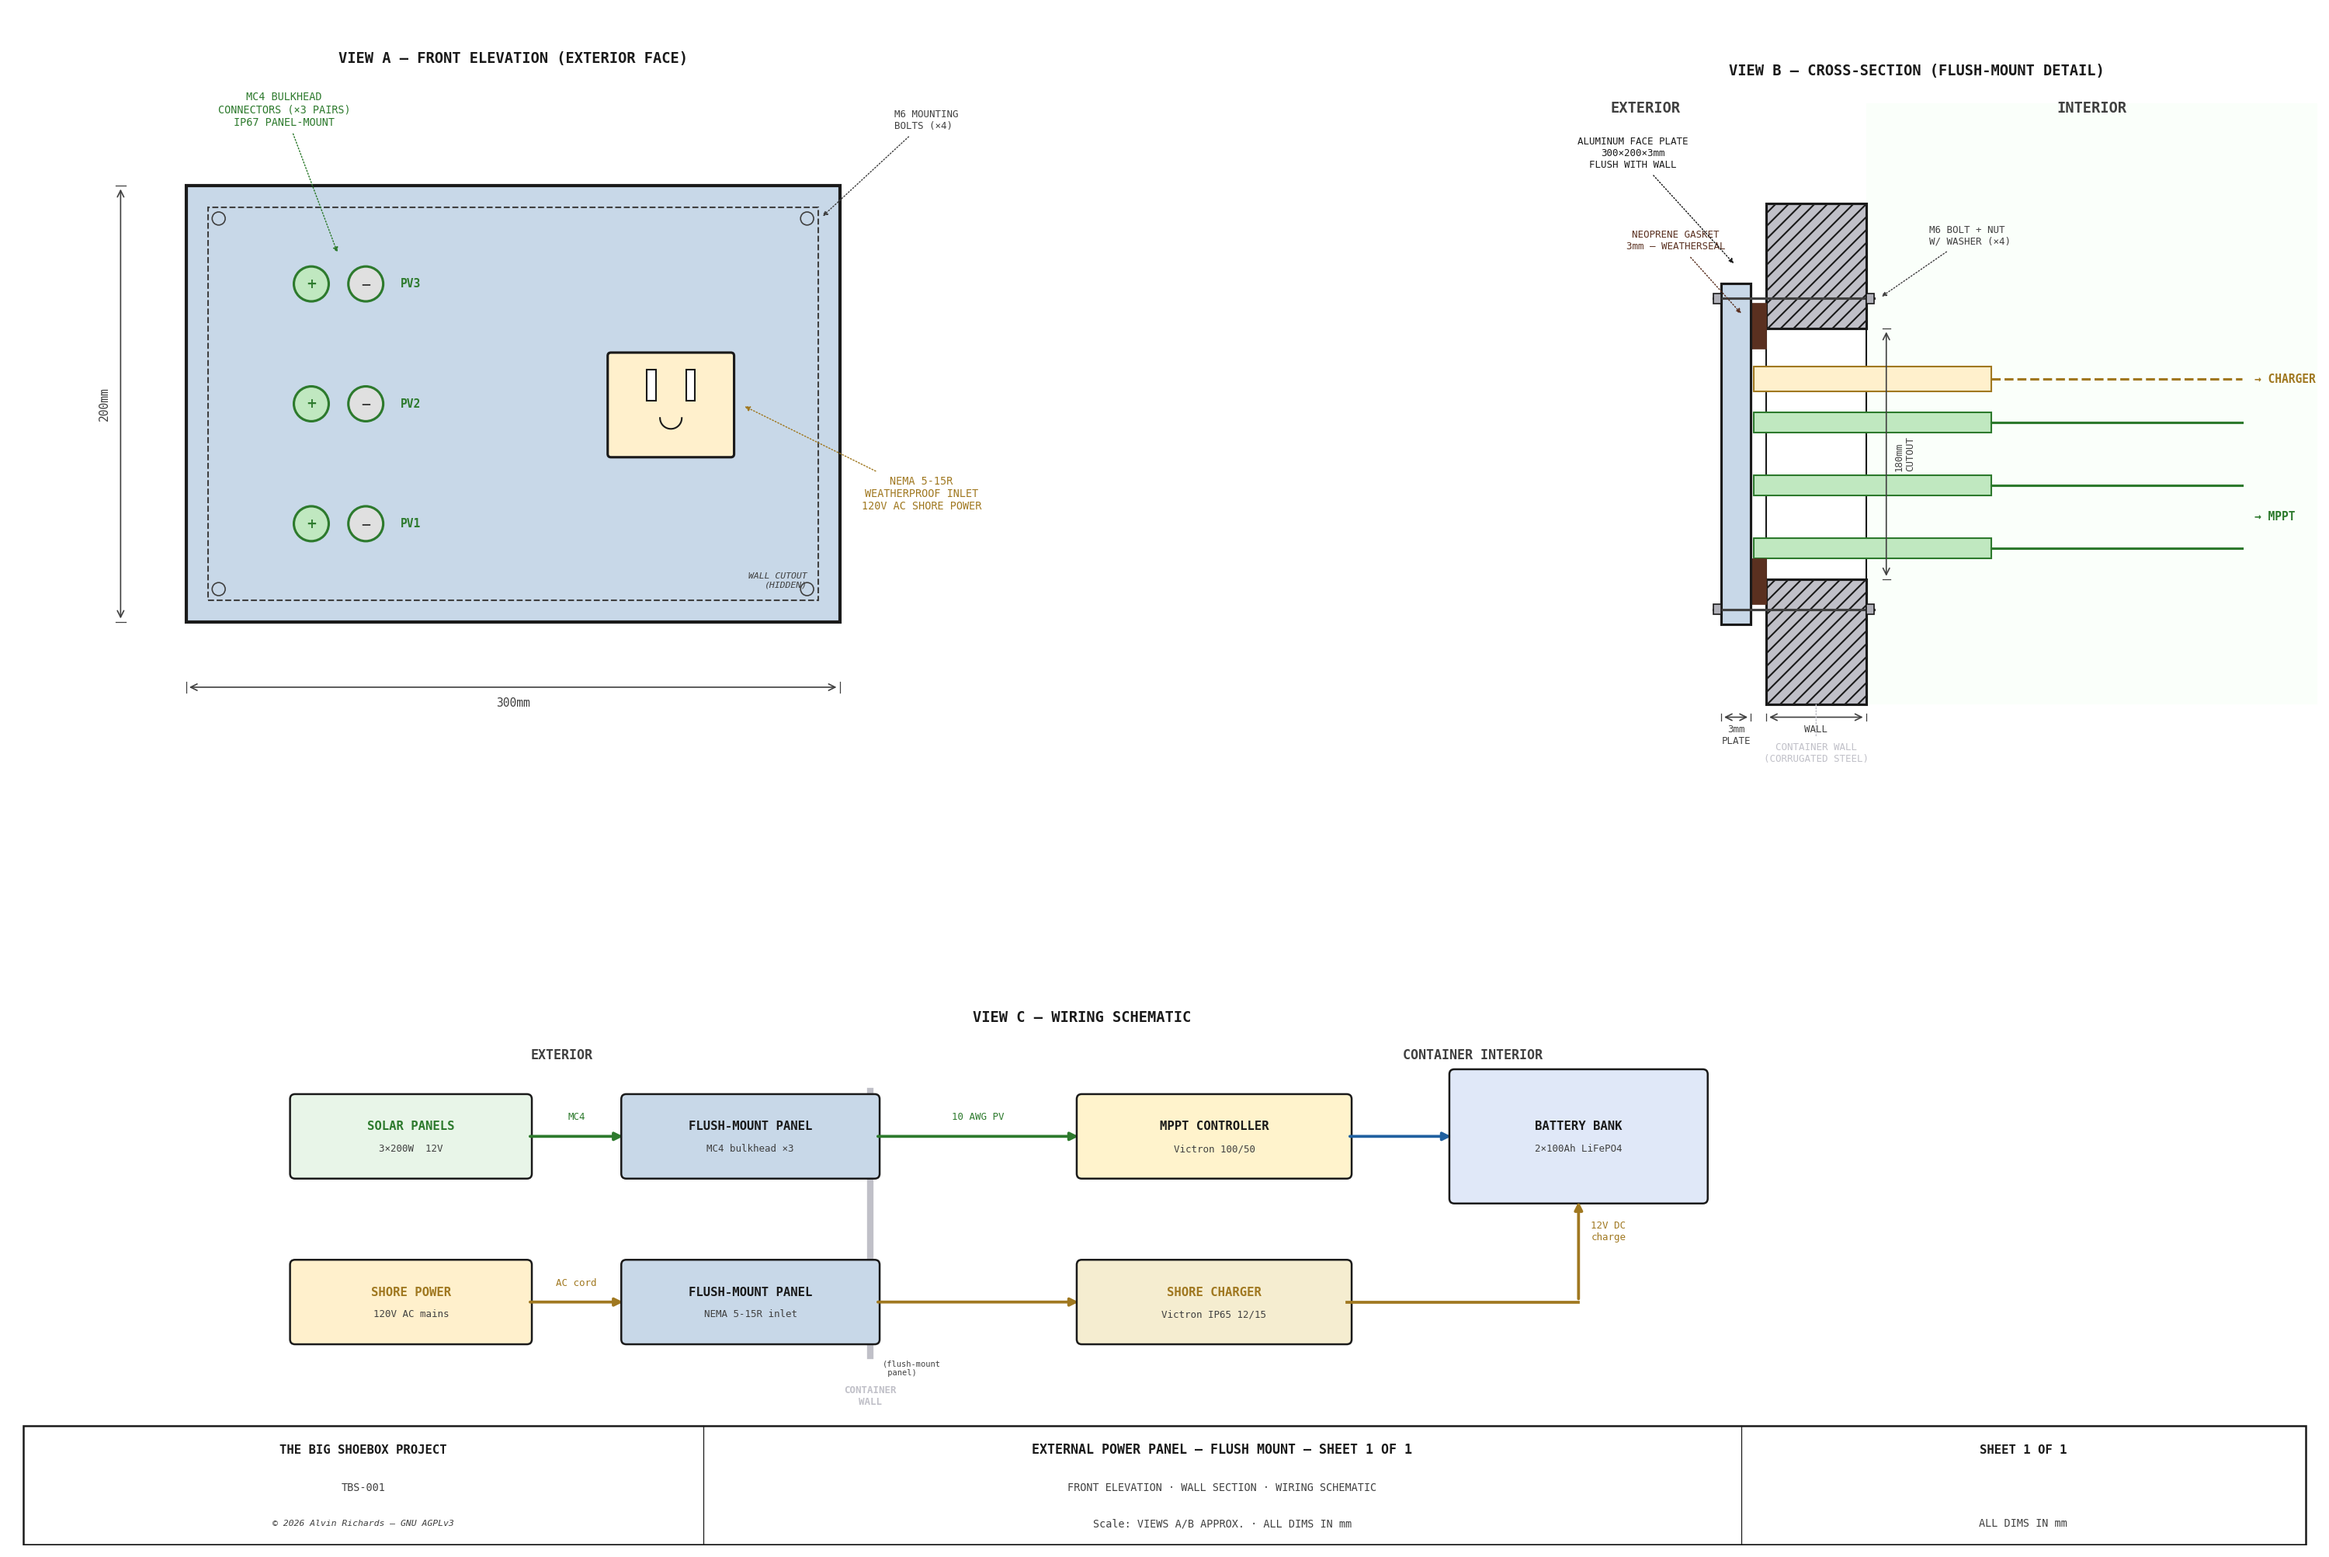
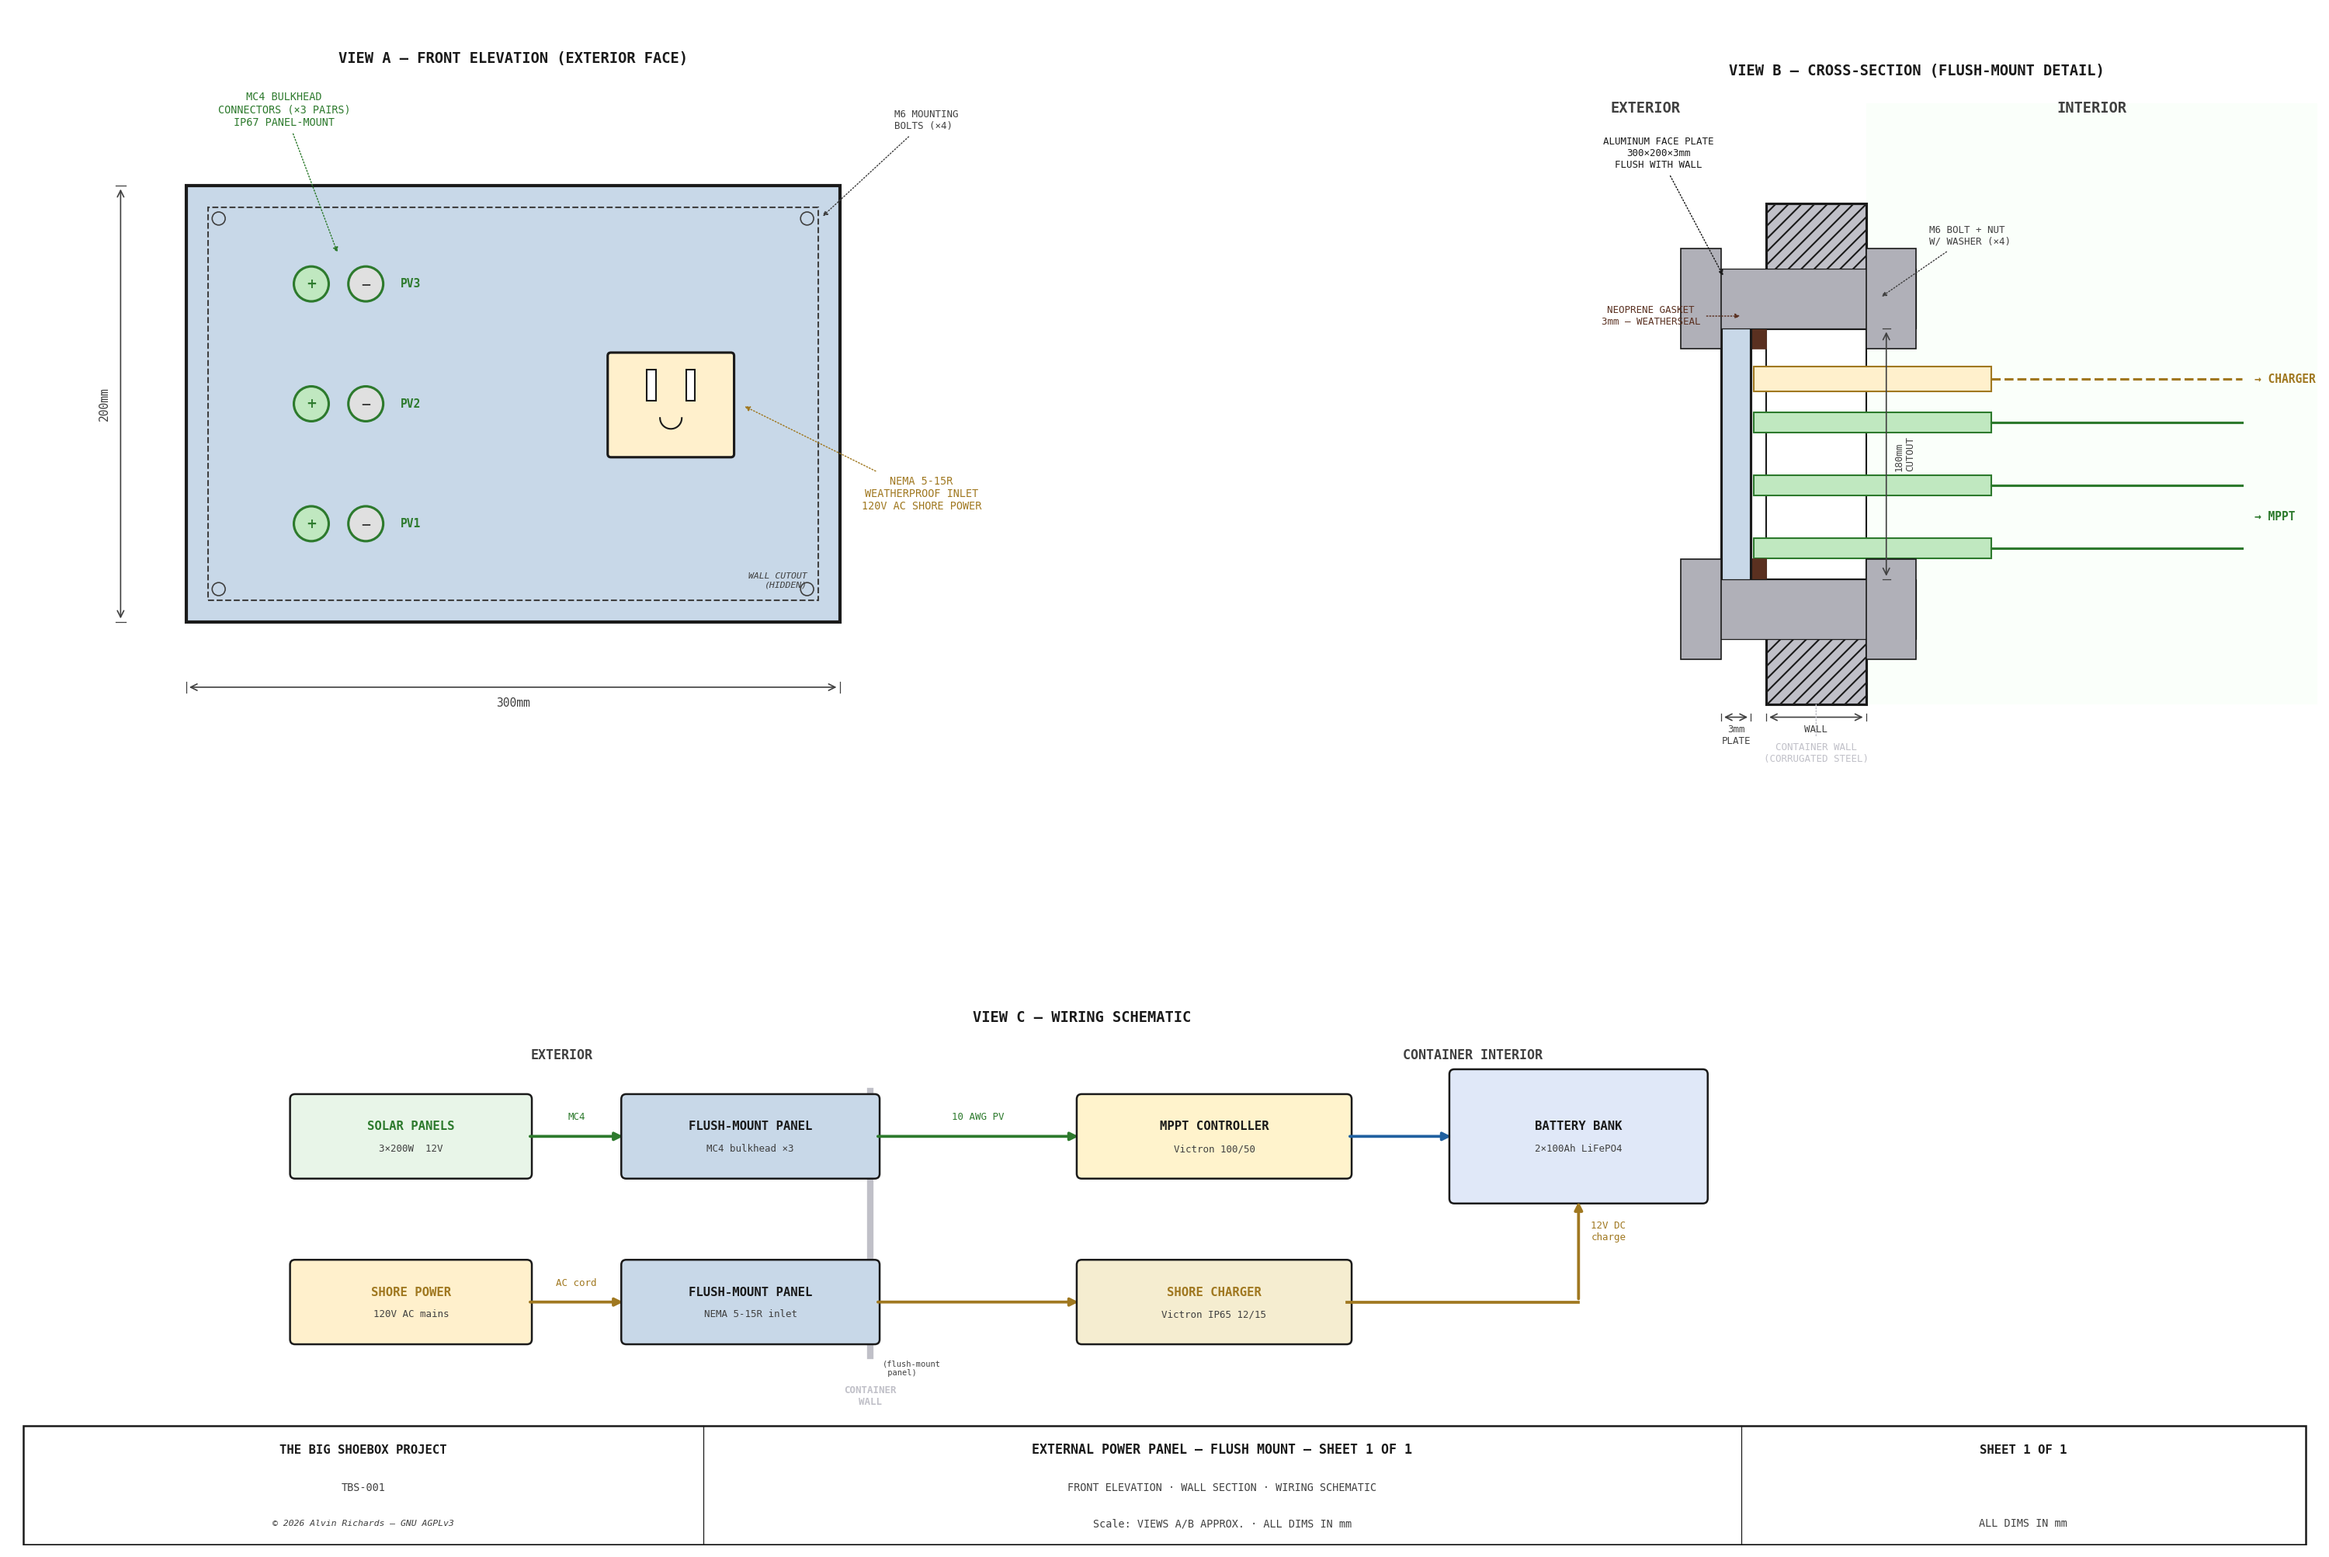
Fix M6 bolt proportions in View B cross-section
Scale bolt dimensions proportionally to the 3mm plate thickness:
M6 shaft 6mm (2x plate), head/nut 10mm across-flats, head 4mm
thick, nut 5mm thick. All drawn relative to plate_t_draw.

Changed region(s): [[0.682, 0.1546, 0.837, 0.2474], [0.713, 0.3401, 0.837, 0.4329], [0.682, 0.0928, 0.713, 0.1237]]

diff --git a/generate_power_panel_diagram.py b/generate_power_panel_diagram.py
@@ -273,22 +273,29 @@ def draw_sheet1():
 
     # Mounting bolts (top and bottom, through plate + gasket + wall)
     bolt_positions = [cut_bot - 12, cut_top + 12]
-    bolt_shaft_d = 2       # M6 shaft shown as line thickness
-    bolt_head_w = 3        # bolt head thickness (depth axis)
-    bolt_head_h = 4        # bolt head height (across-flats)
-    nut_w = 3              # nut thickness
-    nut_h = 4              # nut height
+    # Scale bolt proportionally: plate is 3mm drawn as plate_t_draw,
+    # so 1mm = plate_t_draw/3.  M6 shaft = 6mm, head = 10mm AF, 4mm thick.
+    mm_unit = plate_t_draw / 3.0   # drawing units per mm
+    bolt_shaft_h = 6 * mm_unit    # M6 = 6mm diameter in section
+    bolt_head_w = 4 * mm_unit     # head thickness ~4mm
+    bolt_head_h = 10 * mm_unit    # head across-flats ~10mm
+    nut_w = 5 * mm_unit           # nut thickness ~5mm
+    nut_h = 10 * mm_unit          # nut across-flats ~10mm
     for by_pos in bolt_positions:
         # Bolt shaft — plate through to nut
-        ax_b.plot([bx(plate_x - bolt_head_w), bx(wall_x + wall_thick + nut_w)],
-                  [by(by_pos), by(by_pos)],
-                  color=C_DIM, lw=1.5, zorder=7)
+        draw_rect(ax_b, bx(plate_x - bolt_head_w),
+                  by(by_pos - bolt_shaft_h / 2),
+                  bx(plate_t_draw + gasket_t_draw + wall_thick + bolt_head_w + nut_w),
+                  by(bolt_shaft_h),
+                  fc=C_STEEL, color=C_OUT, lw=0.6, zorder=7)
         # Bolt head (exterior side of plate)
-        draw_rect(ax_b, bx(plate_x - bolt_head_w), by(by_pos - bolt_head_h / 2),
+        draw_rect(ax_b, bx(plate_x - bolt_head_w),
+                  by(by_pos - bolt_head_h / 2),
                   bx(bolt_head_w), by(bolt_head_h),
                   fc=C_STEEL, color=C_OUT, lw=0.8, zorder=8)
         # Nut (interior side of wall)
-        draw_rect(ax_b, bx(wall_x + wall_thick), by(by_pos - nut_h / 2),
+        draw_rect(ax_b, bx(wall_x + wall_thick),
+                  by(by_pos - nut_h / 2),
                   bx(nut_w), by(nut_h),
                   fc=C_STEEL, color=C_OUT, lw=0.8, zorder=8)
 
@@ -326,12 +333,12 @@ def draw_sheet1():
     # Leader labels
     leader(ax_b, bx(gasket_x - gasket_t_draw / 2),
            by(cut_top + 5),
-           bx(gasket_x - 30), by(cut_top + 35),
+           bx(gasket_x - 40), by(cut_top + 5),
            "NEOPRENE GASKET\n3mm — WEATHERSEAL",
            fs=6, color=C_GASKT, ha="center", arrow_style="-|>", font=FONT)
 
-    leader(ax_b, bx(plate_x + plate_t_draw / 2), by(cut_top + 25),
-           bx(plate_x - 35), by(sec_h + 40),
+    leader(ax_b, bx(plate_x + PLATE_T / 2), by(cut_top + 20),
+           bx(plate_x - 25), by(sec_h + 40),
            f"ALUMINUM FACE PLATE\n{PLATE_W}×{PLATE_H}×{PLATE_T}mm\nFLUSH WITH WALL",
            fs=6, color=C_OUT, ha="center", arrow_style="-|>", font=FONT)
 
